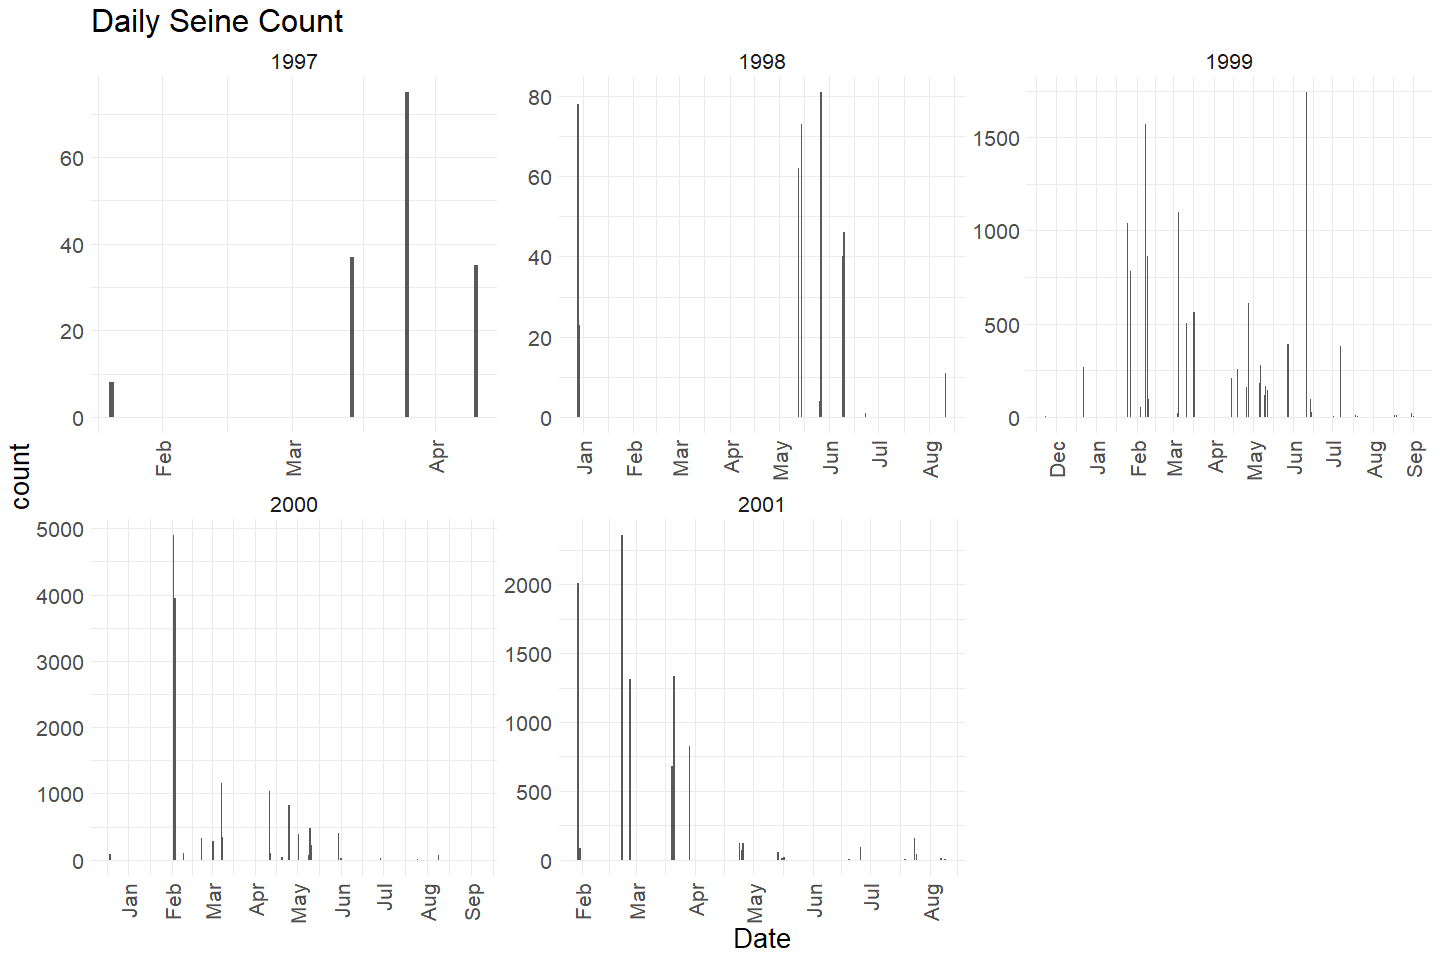
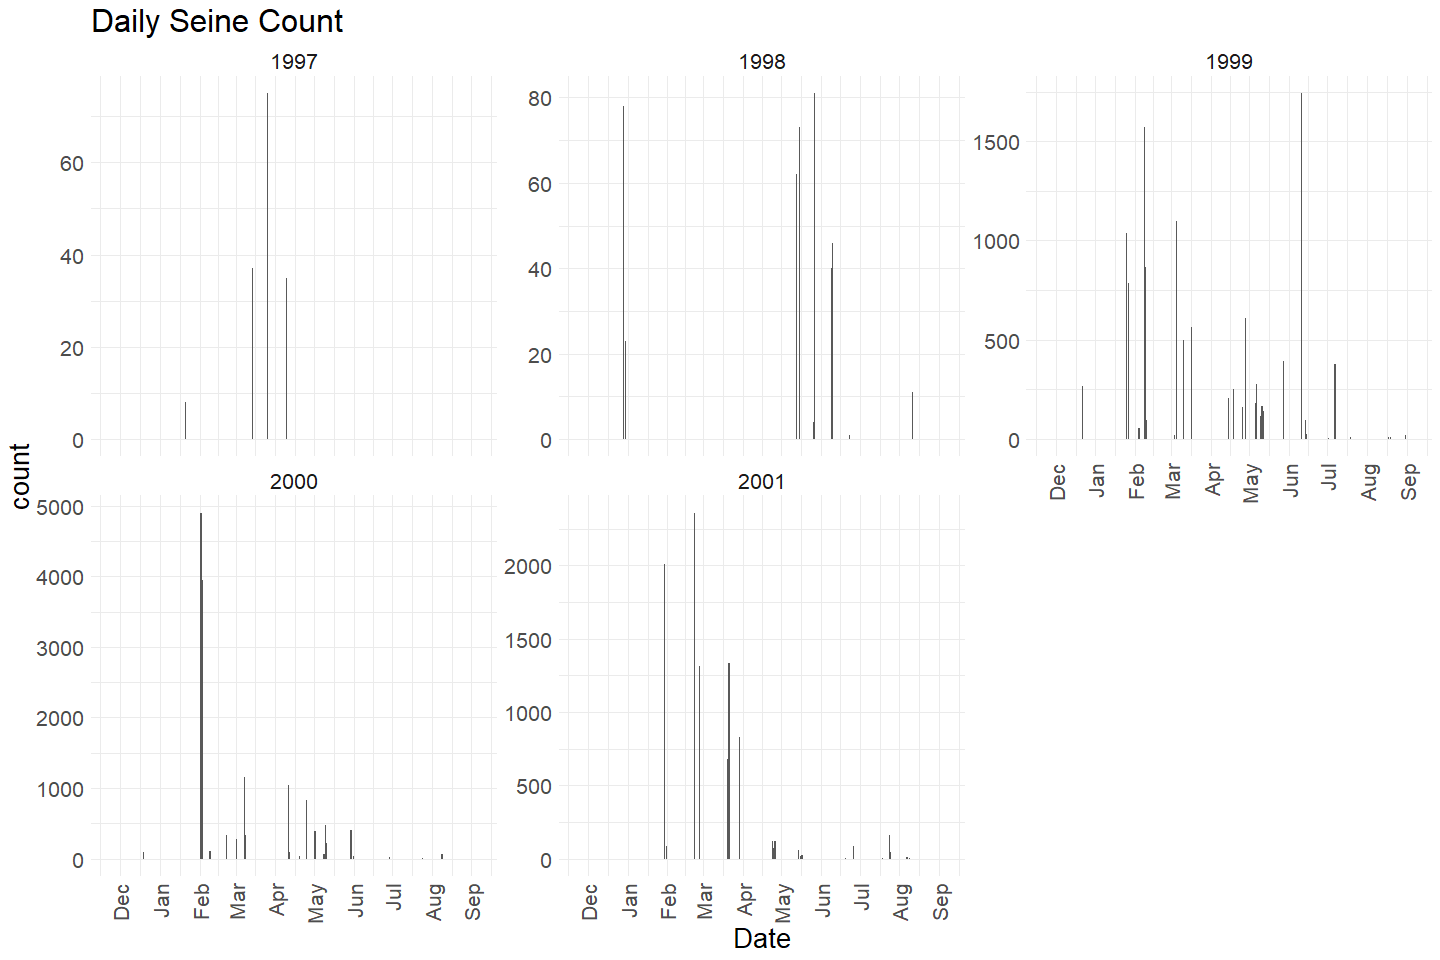
updates 1997 seine data

diff --git a/scripts/seine_and_snorkel_data/feather-river/feather_seine_1997-2001.md b/scripts/seine_and_snorkel_data/feather-river/feather_seine_1997-2001.md
@@ -14,9 +14,12 @@ attributes than the more recent data.
 
 **Timeframe:** 1997 - 2001
 
-**Seine Season:** ? TODO
+**Seine Season:** First survey can be done as early as mid December and
+then sampling can continue until late August.
 
-**Completeness of Record throughout timeframe:**
+**Completeness of Record throughout timeframe:** Sampled all 5 years in
+date range. Sampling does not occur at regular time intervals throughout
+the years sampled.
 
 **Sampling Location:** Feather River
 
@@ -229,12 +232,14 @@ Provide a stat on NA or unknown values
 
 ``` r
 cleaner_seine_data %>% 
+  group_by(date) %>%
+  summarize(count = sum(count)) %>%
   mutate(year = as.factor(year(date)),
          fake_year = if_else(month(date) %in% 10:12, 1900, 1901),
          fake_date = as.Date(paste0(fake_year,"-", month(date), "-", day(date)))) %>%
   ggplot(aes(x = fake_date, y = count)) + 
   geom_col() + 
-  facet_wrap(~year(date), scales = "free") + 
+  facet_wrap(~year(date), scales = "free_y") + 
   scale_x_date(labels = date_format("%b"), date_breaks = "1 month") + 
   theme_minimal() + 
   theme(text = element_text(size = 20),
@@ -291,9 +296,9 @@ cleaner_seine_data %>% select_if(is.character) %>% colnames()
 
 ### Variable: `seine_id`
 
-TODO join seineData onto Seine Id can be used to get additional
-information describing seine equipment. (Information on crew, depth,
-temp, ect…)
+Seine Id can be used to get additional information describing seine
+equipment. (Information on crew, depth, temp, ect…). We have this data
+in access database if we decide we want it.
 
 **NA and Unknown Values**
 
